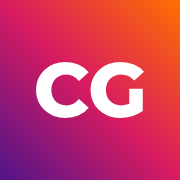
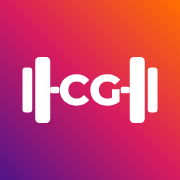
Novo ícone: halter com o monograma CG
Claude-Session: https://claude.ai/code/session_019NgU7eB2c8h8XyQQaot9NC

Changed region(s): [[0.1111, 0.3056, 0.8889, 0.6944]]

diff --git a/src/components/Logo.tsx b/src/components/Logo.tsx
@@ -1,4 +1,4 @@
-/** Marca do app: o mesmo ícone do aplicativo instalado (monograma "CG" branco sobre degradê). Decorativa (o nome vem do texto ao lado). */
+/** Marca do app: o mesmo ícone do aplicativo instalado (halter com o monograma "CG" no lugar da barra, branco sobre degradê). Decorativa (o nome vem do texto ao lado). */
 export function Logo({ size = 32 }: { size?: number }) {
   return (
     <svg className="logo" viewBox="0 0 1200 1200" width={size} height={size} aria-hidden="true" focusable="false">
@@ -8,7 +8,13 @@ export function Logo({ size = 32 }: { size?: number }) {
         </linearGradient>
       </defs>
       <rect width="1200" height="1200" rx="264" fill="url(#cg-grad)" />
-      <path d="M436.8 786.3Q394.5 786.3 358.4 772.7Q322.4 759.2 295.9 734.1Q269.4 709.1 254.7 675.1Q240.0 641.0 240.0 600.0Q240.0 559.0 254.7 524.9Q269.4 490.9 295.9 465.9Q322.5 440.8 358.6 427.3Q394.6 413.7 437.0 413.7Q486.6 413.7 525.8 430.9Q565.0 448.2 590.9 481.1L526.6 539.5Q509.4 519.1 488.5 508.2Q467.5 497.4 442.0 497.4Q419.9 497.4 401.7 504.6Q383.5 511.9 370.2 525.5Q357.0 539.1 349.7 558.0Q342.3 577.0 342.3 600.0Q342.3 623.0 349.7 642.0Q357.0 660.9 370.2 674.5Q383.5 688.1 401.7 695.4Q419.9 702.6 442.0 702.6Q467.5 702.6 488.5 691.8Q509.4 680.9 526.6 660.3L590.9 718.7Q565.0 751.3 525.8 768.8Q486.6 786.3 436.8 786.3ZM801.2 786.3Q758.3 786.3 722.2 772.7Q686.1 759.2 659.5 734.1Q632.9 709.1 618.2 675.1Q603.5 641.0 603.5 600.0Q603.5 559.0 618.2 524.9Q632.9 490.9 659.7 465.9Q686.6 440.8 723.1 427.3Q759.5 413.7 803.3 413.7Q853.7 413.7 893.6 430.5Q933.5 447.3 960.0 479.0L895.2 537.4Q876.9 517.3 855.5 507.3Q834.1 497.4 808.3 497.4Q785.3 497.4 766.4 504.6Q747.5 511.9 734.0 525.5Q720.5 539.1 713.2 557.9Q705.9 576.6 705.9 600.0Q705.9 622.5 713.2 641.5Q720.5 660.4 734.0 674.1Q747.5 687.8 766.0 695.2Q784.5 702.6 807.1 702.6Q829.8 702.6 851.2 695.2Q872.5 687.7 894.7 669.7L951.7 740.7Q920.6 762.9 880.4 774.6Q840.2 786.3 801.2 786.3ZM951.7 740.7 861.8 727.7V592.3H951.7Z" fill="#fff" />
+      <rect x="150" y="450" width="65" height="300" rx="22" fill="#fff" />
+      <rect x="235" y="380" width="100" height="440" rx="28" fill="#fff" />
+      <rect x="335" y="578" width="60" height="44" rx="10" fill="#fff" />
+      <rect x="805" y="578" width="60" height="44" rx="10" fill="#fff" />
+      <rect x="865" y="380" width="100" height="440" rx="28" fill="#fff" />
+      <rect x="985" y="450" width="65" height="300" rx="22" fill="#fff" />
+      <path transform="translate(600 600) scale(.56) translate(-600 -600)" d="M436.8 786.3Q394.5 786.3 358.4 772.7Q322.4 759.2 295.9 734.1Q269.4 709.1 254.7 675.1Q240.0 641.0 240.0 600.0Q240.0 559.0 254.7 524.9Q269.4 490.9 295.9 465.9Q322.5 440.8 358.6 427.3Q394.6 413.7 437.0 413.7Q486.6 413.7 525.8 430.9Q565.0 448.2 590.9 481.1L526.6 539.5Q509.4 519.1 488.5 508.2Q467.5 497.4 442.0 497.4Q419.9 497.4 401.7 504.6Q383.5 511.9 370.2 525.5Q357.0 539.1 349.7 558.0Q342.3 577.0 342.3 600.0Q342.3 623.0 349.7 642.0Q357.0 660.9 370.2 674.5Q383.5 688.1 401.7 695.4Q419.9 702.6 442.0 702.6Q467.5 702.6 488.5 691.8Q509.4 680.9 526.6 660.3L590.9 718.7Q565.0 751.3 525.8 768.8Q486.6 786.3 436.8 786.3ZM801.2 786.3Q758.3 786.3 722.2 772.7Q686.1 759.2 659.5 734.1Q632.9 709.1 618.2 675.1Q603.5 641.0 603.5 600.0Q603.5 559.0 618.2 524.9Q632.9 490.9 659.7 465.9Q686.6 440.8 723.1 427.3Q759.5 413.7 803.3 413.7Q853.7 413.7 893.6 430.5Q933.5 447.3 960.0 479.0L895.2 537.4Q876.9 517.3 855.5 507.3Q834.1 497.4 808.3 497.4Q785.3 497.4 766.4 504.6Q747.5 511.9 734.0 525.5Q720.5 539.1 713.2 557.9Q705.9 576.6 705.9 600.0Q705.9 622.5 713.2 641.5Q720.5 660.4 734.0 674.1Q747.5 687.8 766.0 695.2Q784.5 702.6 807.1 702.6Q829.8 702.6 851.2 695.2Q872.5 687.7 894.7 669.7L951.7 740.7Q920.6 762.9 880.4 774.6Q840.2 786.3 801.2 786.3ZM951.7 740.7 861.8 727.7V592.3H951.7Z" fill="#fff" />
     </svg>
   );
 }

diff --git a/docs/time/LOG.md b/docs/time/LOG.md
@@ -96,3 +96,4 @@
 - Novos recursos: tela sempre acesa durante o treino (Wake Lock); aviso "Novo recorde!" ao bater a maior carga de um exercício; anotação do treino (aparece no Histórico); meta de treinos por semana (Início mostra o progresso, Ajustes muda); calculadora de anilhas no treino; compartilhar resumo do treino (Histórico); medidas corporais com diferença para o registro anterior (Histórico). Banco v5 (tabela measures); backup leva medidas e anotações. Testes: plates.test.ts, recursos.ui.test.tsx.
 - Revisão com as Web Interface Guidelines (Vercel): touch-action: manipulation, overscroll-behavior nas janelas, números tabulares, títulos balanceados, textos longos quebram sem estourar, imagens com largura e altura, campos com autocomplete desligado e sem corretor nos numéricos, reticências nos exemplos, marca com translate=no.
 - Removido o recurso de medidas corporais (tela, tabela e backup). Banco v6 apaga a tabela measures; backups antigos com medidas ainda abrem (o campo é ignorado).
+- Novo ícone: halter com o monograma CG no lugar da barra (icon.svg, PNGs 32/180/192/512, maskable com margem de segurança e logo das telas).
